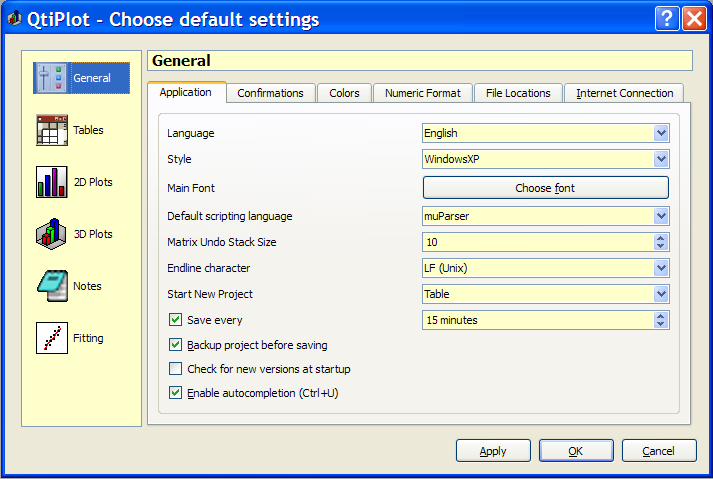
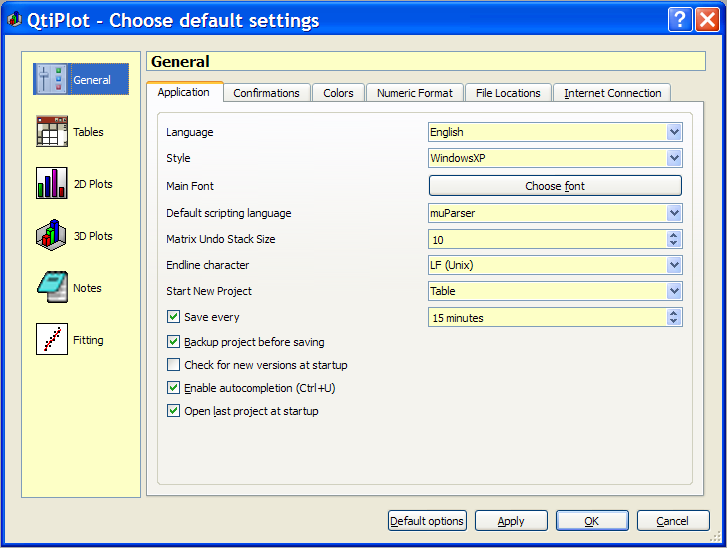
- Reverted some bad changes from last revision. - Improved parsing of Origin texts. - Updated screen shot for the user manual.

diff --git a/trunk/qtiplot/src/core/ApplicationWindow.cpp b/trunk/qtiplot/src/core/ApplicationWindow.cpp
@@ -15758,9 +15758,13 @@ void ApplicationWindow::parseCommandLineArguments(const QStringList& args)
 {
 	int num_args = args.count();
 	if(num_args == 0){
-		if (d_open_last_project && !recentProjects.isEmpty())
-			open(recentProjects[0], false, false);
-		else
+		if (d_open_last_project && !recentProjects.isEmpty()){
+			ApplicationWindow *app = open(recentProjects[0]);
+			if (app && app != this){
+				savedProject();
+				close();
+			}
+		} else
 			initWindow();
 		return;
 	}
@@ -15842,8 +15846,13 @@ void ApplicationWindow::parseCommandLineArguments(const QStringList& args)
 		if (console)
 			return;
 
-		if (d_open_last_project && !recentProjects.isEmpty())
-			open(recentProjects[0], default_settings, false);
+		if (d_open_last_project && !recentProjects.isEmpty()){
+			ApplicationWindow *app = open(recentProjects[0], default_settings);
+			if (app && app != this){
+				savedProject();
+				close();
+			}
+		}
 		else
 			initWindow();
 		return;
@@ -15876,8 +15885,11 @@ void ApplicationWindow::parseCommandLineArguments(const QStringList& args)
 				scriptWindow->executeAll();
 		} else if (exec || noGui)
 			loadScript(file_name, exec, noGui);
-		else
-			open(file_name, default_settings, false);
+		else {
+			ApplicationWindow *app = open(file_name, default_settings);
+			if (app && app != this)
+				close();
+		}
 	}
 }
 

diff --git a/trunk/qtiplot/src/origin/importOPJ.cpp b/trunk/qtiplot/src/origin/importOPJ.cpp
@@ -2159,11 +2159,13 @@ QString ImportOPJ::parseOriginTags(const QString &str)
 	line.replace("&lbracket;", "(");
 	line.replace("&rbracket;", ")");
 
-	while (line.contains("\\p")){
-		int pos1 = line.indexOf("\\p");
-		pos1 = line.indexOf("(", pos1 + 2) + 1;
-		int pos2 = line.indexOf(")", pos1);
-		line = line.mid(pos1, pos2 - pos1);
+	QRegExp fontModifier("\p(\\d)+\\(.*\\)");//remove \p163(...) like tags
+	int index = line.indexOf(fontModifier);
+	while (index >= 0){
+		int pos1 = line.indexOf("(", index + 2) + 1;
+		int length = fontModifier.matchedLength();
+		line = line.mid(pos1, length - pos1);
+		index = line.indexOf(fontModifier, index + length);
 	}
 
 	return line;
